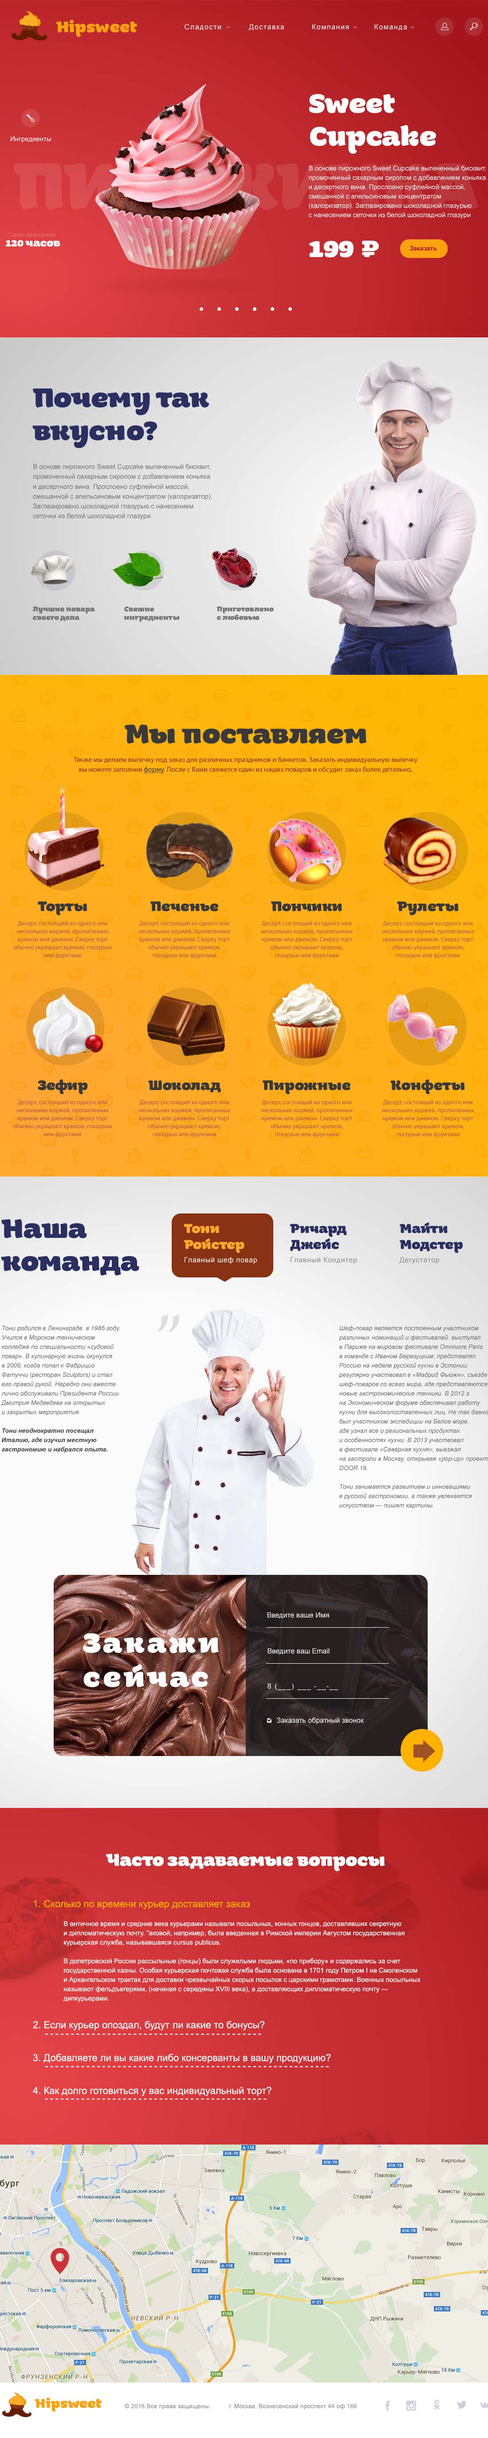
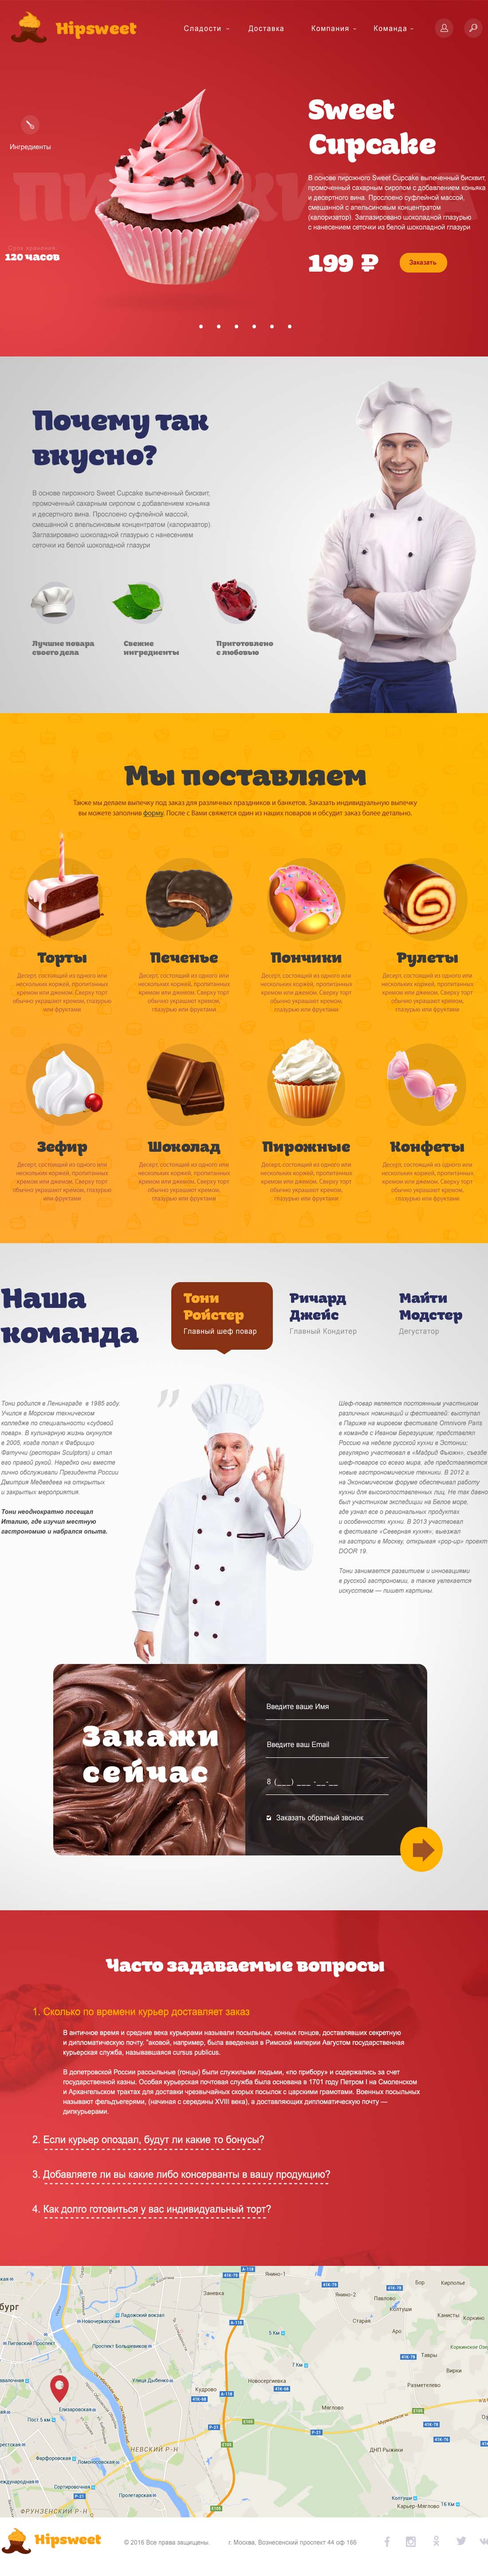
page3 working

diff --git a/app/index.html b/app/index.html
@@ -14,6 +14,7 @@
 	<!-- build:css css/vendor.min.css -->
     <!-- bower:css -->
     <link rel="stylesheet" href="bower/fullpage.js/dist/jquery.fullpage.css" />
+    <link rel="stylesheet" href="bower/normalize-css/normalize.css" />
     <!-- endbower -->
     <!-- endbuild -->
 	<link rel="stylesheet" href="css/styles.min.css">
@@ -23,7 +24,7 @@
 	<!--[if lt IE 9]>
 		<h1>Я виден только в ИЕ 8 и меньше</h1>
 	<![endif]-->
-	<ul id="myMenu">
+	<!-- <ul id="myMenu">
 		<li class="myMenu-item" data-menuanchor="sections1" class="active"><a href="#sections1" class="myMenu-item-link">section1</a></li>
 		<li class="myMenu-item" data-menuanchor="sections2"><a href="#sections2" class="myMenu-item-link"> section2</a></li>
 		<li class="myMenu-item" data-menuanchor="sections3"><a href="#sections3" class="myMenu-item-link"> section3</a></li>
@@ -31,61 +32,57 @@
 		<li class="myMenu-item" data-menuanchor="sections5"><a href="#sections5" class="myMenu-item-link"> section5</a></li>
 		<li class="myMenu-item" data-menuanchor="sections6"><a href="#sections6" class="myMenu-item-link"> section6</a></li>
 		<li class="myMenu-item" data-menuanchor="sections7"><a href="#sections7" class="myMenu-item-link"> section7</a></li>
-	</ul>
+	</ul> -->
 	<div id="fullpage">
 		<div class="section">
 			<div class="wrapper">
 				<div class="container">
-					<header class="page1-header">
-						<div class="page1-header-left">
-							<a href="#" class="header-left-link">
-								<img src="assets/img/header/logo.png" alt="logo" class="header-left-img">
-							</a>
-						</div>
-						<div class="header-center">
-							<nav class="nav">
-								<ul class="nav-list">
-									<li class="nav-item">
-										<a href="#" class="nav-link">Сладость </a>
+					<div class="page1">
+						<header class="page1-header">
+							<div class="page1-header-left">
+								<a href="#" class="header-left-link">
+									<img src="assets/img/header/logo.png" alt="logo" class="header-left-img">
+								</a>
+							</div>
+							<div class="header-center">
+								<nav class="nav">
+									<ul class="nav-list">
+										<li class="nav-item">
+											<a href="#" class="nav-link">Сладость </a>
+										</li>
+										<li class="nav-item">
+											<a href="#" class="nav-link">Доставка</a>
+										</li>
+										<li class="nav-item">
+											<a href="#" class="nav-link">Компания</a>
+										</li>
+										<li class="nav-item">
+											<a href="#" class="nav-link">Команда</a>
+											<ul class="dropdown">
+												<li class="dropdown-item"><a href="#" class="dropdown-item-link">Тони Ройстер</a></li>
+												<li class="dropdown-item"><a href="#" class="dropdown-item-link">Ричард Джейс</a></li>
+												<li class="dropdown-item"><a href="#" class="dropdown-item-link">Марти Модстер</a></li>
+												<li class="dropdown-item"><a href="#" class="dropdown-item-link">Тони Ройстер</a></li>
+												<li class="dropdown-item"><a href="#" class="dropdown-item-link">Ричард Джейс</a></li>
+												<li class="dropdown-item"><a href="#" class="dropdown-item-link">Марти Модстер</a></li>
+												<li class="dropdown-item"><a href="#" class="dropdown-item-link">Тони Ройстер</a></li>
+											</ul>
+										</li>
+									</ul>
+								</nav>
+							</div>
+							<div class="page1-header-right">
+								<ul class="header-right-socials">
+									<li class="header-right-socials-item">
+										<a href="#" class="header-right-socials-item-link fa-user-o"></a>
 									</li>
-									<li class="nav-item">
-										<a href="#" class="nav-link">Доставка</a>
-									</li>
-									<li class="nav-item">
-										<a href="#" class="nav-link">Компания</a>
-									</li>
-									<li class="nav-item">
-										<a href="#" class="nav-link">Команда</a>
-										<ul class="dropdown">
-											<li class="dropdown-item"><a href="#" class="dropdown-item-link">Тони Ройстер</a></li>
-											<li class="dropdown-item"><a href="#" class="dropdown-item-link">Ричард Джейс</a></li>
-											<li class="dropdown-item"><a href="#" class="dropdown-item-link">Марти Модстер</a></li>
-											<li class="dropdown-item"><a href="#" class="dropdown-item-link">Тони Ройстер</a></li>
-											<li class="dropdown-item"><a href="#" class="dropdown-item-link">Ричард Джейс</a></li>
-											<li class="dropdown-item"><a href="#" class="dropdown-item-link">Марти Модстер</a></li>
-											<li class="dropdown-item"><a href="#" class="dropdown-item-link">Тони Ройстер</a></li>
-										</ul>
+									<li class="header-right-socials-item">
+										<a href="#" class="header-right-socials-item-link fa-search fa-flip-horizontal"></a>
 									</li>
 								</ul>
-							</nav>
-						</div>
-						<div class="page1-header-right">
-							<ul class="header-right-socials">
-								<li class="header-right-socials-item">
-									<a href="#" class="header-right-socials-item-link fa-user-o"></a>
-								</li>
-								<li class="header-right-socials-item">
-									<a href="#" class="header-right-socials-item-link fa-search fa-flip-horizontal"></a>
-								</li>
-							</ul>
-						</div>
-					</header>
-	<!-- 				<div class="slider-header">
-						<div class="slide slide1" data-anchor="slide1"> Slide 1 </div>
-						<div class="slide slide2" data-anchor="slide2"> Slide 2 </div>
-						<div class="slide slide3" data-anchor="slide3"> Slide 3 </div>
-						<div class="slide slide4" data-anchor="slide4"> Slide 4 </div>
-					</div> -->
+							</div>
+						</header>
+					</div>
 				</div>
 			</div>
 		</div>
@@ -116,9 +113,9 @@
 							</ul>
 						</div>
 						<div class="page2-right">
-								<div class="page2-img">
-									<img src="assets/img/page2/cook.png" alt="cook" class="page2-pic">
-								</div>
+							<div class="page2-img">
+								<img src="assets/img/page2/cook.png" alt="cook" class="page2-img-pic">
+							</div>
 						</div>
 					</div>
 				</div>
@@ -131,6 +128,62 @@
 					<div class="page3-title">Мы поставляем</div>
 					<div class="page3-text">Также мы делаем выпечку под заказ для различных праздников и банкетов. Заказать индивидуальную выпечку вы можете заполнив <a href="#" class="page3-text-link">форму</a>. После с Вами свяжется один из наших поваров и обсудит заказ более детально.</div>
 					<ul class="page3-list">
+						<li class="page3-list-item">
+							<a href="#" class="page3-list-item-link">
+								<div class="product">
+									<div class="product-img">
+										<img src="assets/img/page3/Cakes.png" alt="" class="product-img-pic">
+									</div>
+									<div class="product-title">Торты</div>
+									<div class="product-description">
+										<p>Десерт, состоящий из одного или нескольких коржей, пропитанных кремом или джемом. Сверху торт обычно украшают кремом, глазурью или фруктами
+										</p>
+									</div>
+								</div>
+							</a>
+						</li>
+						<li class="page3-list-item">
+							<a href="#" class="page3-list-item-link">
+								<div class="product">
+									<div class="product-img">
+										<img src="assets/img/page3/liver.png" alt="">
+									</div>
+									<div class="product-title">Печенье</div>
+									<div class="product-description">
+										<p>Десерт, состоящий из одного или нескольких коржей, пропитанных кремом или джемом. Сверху торт обычно украшают кремом, глазурью или фруктами
+										</p>
+									</div>
+								</div>
+							</a>
+						</li>
+						<li class="page3-list-item">
+							<a href="#" class="page3-list-item-link">
+								<div class="product">
+									<div class="product-img">
+										<img src="assets/img/page3/donuts.png" alt="">
+									</div>
+									<div class="product-title">Пончики</div>
+									<div class="product-description">
+										<p>Десерт, состоящий из одного или нескольких коржей, пропитанных кремом или джемом. Сверху торт обычно украшают кремом, глазурью или фруктами
+										</p>
+									</div>
+								</div>
+							</a>
+						</li>
+						<li class="page3-list-item">
+							<a href="#" class="page3-list-item-link">
+								<div class="product">
+									<div class="product-img">
+										<img src="assets/img/page3/rutes.png" alt="">
+									</div>
+									<div class="product-title">Рулеты</div>
+									<div class="product-description">
+										<p>Десерт, состоящий из одного или нескольких коржей, пропитанных кремом или джемом. Сверху торт обычно украшают кремом, глазурью или фруктами
+										</p>
+									</div>
+								</div>
+							</a>
+						</li>
 						<li class="page3-list-item">
 							<a href="#" class="page3-list-item-link">
 								<div class="product">

diff --git a/app/sass/sections/page3.scss b/app/sass/sections/page3.scss
@@ -1,7 +1,7 @@
 .page3{
-	@extend %clearfix;
 	padding: 95px 0 115px 0;
-	background: url('../../assets/img/page3/section3.jpg') top center no-repeat;
+	height: 1300px;
+	//background: url('../../assets/img/page3/section3.jpg') top center no-repeat;
 	//background: #ffb212;
 }
 
@@ -16,17 +16,27 @@
 }
 .page3-text{
 	font-family: arial;
-	margin: 0 160px 22px 160px;
+	margin: 0 160px 85px 160px;
 	font-size: 15px;
 	font-weight: normal;
 	color: #ab594a;
 }
 .page3-list{
-	font-size: 0;
+	@extend %clearfix;
 }
 .page3-list-item{
-	@include inlineblock(middle);
-	width: 24%;
+	float: left;
+	width: 25%;
+	outline: 1px solid black;
+    text-align: center;
+
+    &:first-child .product-img-pic{
+	    position: absolute;
+		top: -60px;
+		left: 0;
+		display: block;
+	    max-width: 100%;
+    }
 }
 .page3-list-item-link{
     display: block;
@@ -35,13 +45,21 @@
     font-size: 15px;
 }
 .product{
-	height: 100px;
+	text-align: center;
 }
 .product-img{
+	width: 180px;
+	height: 180px;
+	@include border-radius(50%);
+	background-color: rgba(#000, .9);
     position: relative;
-    overflow: hidden;
+    margin-bottom: 12px;
+    display: inline-block;
 }
 .product-img-pic{
+	position: absolute;
+	top: 0;
+	left: 0;
 	display: block;
     max-width: 100%;
 }
@@ -50,6 +68,7 @@
 	color: #393939;
 }
 .product-description p{
+	font-family: arial;
 	font-size: 14px;
 	color: #ab594a;
 }

diff --git a/app/sass/sections/page2.scss b/app/sass/sections/page2.scss
@@ -6,7 +6,7 @@
 }
 .page2-left{
 	width: 610px;
-	padding-top: 50px;
+	padding-top: 46px;
 	float: left;
 }
 
@@ -14,12 +14,12 @@
 	@include malina;
 	color: #2b2f5f;
 	font-size: 62px;
-	line-height: 1.2;
+	line-height: 1.3;
 	margin-bottom: 33px;
 }
 .page2-text{
 	padding-right: 200px;
-	margin-bottom: 66px;
+	margin-bottom: 80px;
 }
 .page2-text p{
 	font-family: arial, verdana, sans-serif;
@@ -35,7 +35,7 @@
 .list-item{
 	width: 160px;
 	margin-left: 3px;
-	margin-right: 43px;
+	margin-right: 40px;
 	@include inlineblock(middle);
 	outline: 1px solid #fff;
 	font-size: 16px;
@@ -52,7 +52,7 @@
 	@include border-radius(50%);
 	background-color: rgba(#2b2f5f, .2);
 	cursor: pointer;
-	margin-bottom: 32px;
+	margin-bottom: 37px;
 }
 
 .list-item-link-cap{
@@ -87,10 +87,15 @@
 	font-size: 16px;
 }
 .page2-right{
-	width: 412px;
 	float: right;
+	width: 390px;
+	margin-right: 26px;
 }
-.page2-pic{
+.page2-img{
+	// display: block;
+ //    max-width: 100%;
+}
+.page2-img-pic{
+	display: block;
 	max-width: 100%;
-	max-height: 100%;
 }

diff --git a/app/js/js.js b/app/js/js.js
@@ -1,6 +1,6 @@
- $('#fullpage').fullpage({
- 	anchors:['sections1', 'sections2','sections3','sections4','sections5','sections6', 'sections7'],
- 	menu: '#myMenu',
- 	slidesNavigation: true,
- 	slidesNavPosition: 'bottom',
- });
+ // $('#fullpage').fullpage({
+ // 	anchors:['sections1', 'sections2','sections3','sections4','sections5','sections6', 'sections7'],
+ // 	menu: '#myMenu',
+ // 	slidesNavigation: true,
+ // 	slidesNavPosition: 'bottom',
+ // });

diff --git a/app/sass/_misc/adjustment.scss b/app/sass/_misc/adjustment.scss
@@ -32,7 +32,7 @@ body {
 	line-height: 1.42;
 	-webkit-font-smoothing: antialiased;
 	//background: #ccc;
-	//background: url('../../assets/img/section2/secton2.jpg') top center no-repeat;
+	//background: url('../../assets/img/Hipsweet.jpg') top center no-repeat;
 }
 
 .wrapper {

diff --git a/app/sass/sections/page1.scss b/app/sass/sections/page1.scss
@@ -1,5 +1,6 @@
 .page1{
 	@extend %clearfix;
-	background: url('../../assets/img/page1/secton1.jpg') top center no-repeat;
+	// background: url('../../assets/img/page1') top center no-repeat;
 	//background: #cacaca;
+	height: 760px;
 }

diff --git a/app/sass/sections/page1-header.scss b/app/sass/sections/page1-header.scss
@@ -3,6 +3,8 @@
 	@extend %clearfix;
 	font-family: Arial, 'sans-serif';
 	padding-top: 25px;
+    margin-bottom: 659px;
+    outline: 1px solid #000;
 }
 
 .page1-header-left{
